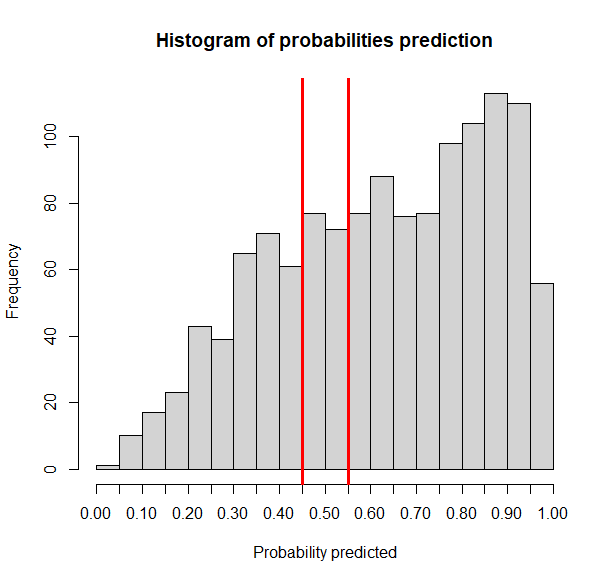
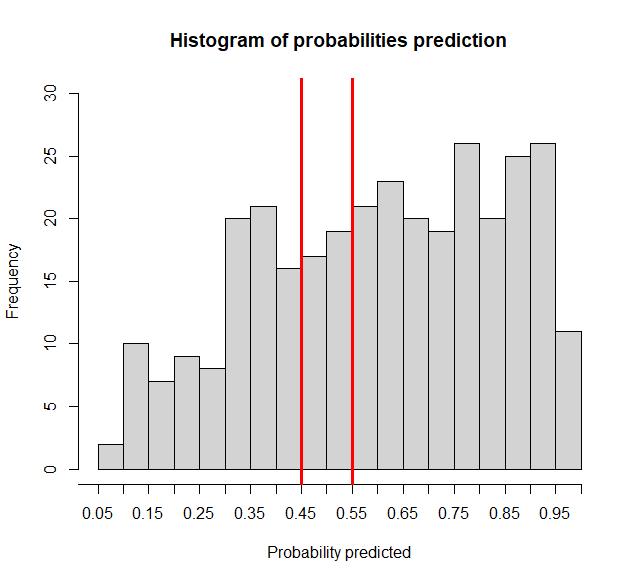
Intermediate report final

diff --git a/reports/mid term/TextFiles/Classification/LogisticRegression.tex b/reports/mid term/TextFiles/Classification/LogisticRegression.tex
@@ -1,4 +1,5 @@
 \subsection{Logistic regression}
+
 As first approach we tried to model our target using \textit{Logistic Regression}.
 
 First of all we fitted a model using all the features, that we will name model A, and the result is displayed in \Fig~\ref{fig:LRAllSum}. The model suggested that many variables are not significantly different from zero, with respect to an $\alpha = 0.01$. Therefore we removed those variables and fitted the model again getting the one in \Fig~\ref{fig:LRImpSum}, that we will name model B.
@@ -6,13 +7,13 @@ First of all we fitted a model using all the features, that we will name model A
 \begin{figure}[h]
 	\begin{subfigure}{.6\textwidth}
 		\centering
-		\includegraphics[width=0.7\linewidth]{ImageFiles/Classification/LogReg/log_reg_all_summary}
+		\includegraphics[width=0.7\linewidth]{ImageFiles/Classification/LogReg/log_reg_tt_all_summary}
 		\caption{Logistic Regression with all features.}
 		\label{fig:LRAllSum}
 	\end{subfigure}
 	\begin{subfigure}{.6\textwidth}
 		\centering
-		\includegraphics[width=0.8\linewidth]{ImageFiles/Classification/LogReg/log_reg_imp_summary}
+		\includegraphics[width=0.8\linewidth]{ImageFiles/Classification/LogReg/log_reg_tt_imp_summary}
 		\caption{Logistic Regression with only significant features.}
 		\label{fig:LRImpSum}
 	\end{subfigure}
@@ -20,9 +21,28 @@ First of all we fitted a model using all the features, that we will name model A
 	\label{fig:LRSum}
 \end{figure}
 
-It can be observed that there is no significant change in performance. When all variables are used, the accuracy is $72.77\%$, compared to $71.36\%$ in the second case. Furthermore, the AIC coefficient changes from 1399.3 to 1397.3, which could be considered almost the same. 
+It can be observed that there is no significant change in performance. When all variables are used, the accuracy is $70\%$, compared to $67.5\%$ in the second case. Furthermore, the AIC coefficient changes from 1052.5 to 1050.2, which could be considered almost the same. 
 
-Another comparison made by the two models is concerning the probabilities predicted since values close to 0.5 suggest high uncertainty of the model. \Fig~\ref{fig:ProbPred} shows as histograms the predicted values distribution for both models.
+\Fig~\ref{fig:CM} shows the Confusion Matrices for the two models. In general, both models tend to perform slightly better in predicting the "yes" class.
+
+\begin{figure}[h]
+	\begin{subfigure}{.6\textwidth}
+		\centering
+		\includegraphics[width=0.7\linewidth]{ImageFiles/Classification/LogReg/log_reg_tt_all_pred_table}
+		\caption{Confusion Matrix of Model A.}
+		\label{fig:CMA}
+	\end{subfigure}
+	\begin{subfigure}{.6\textwidth}
+		\centering
+		\includegraphics[width=0.7\linewidth]{ImageFiles/Classification/LogReg/log_reg_tt_imp_pred_table}
+		\caption{Confusion Matrix of Model B.}
+		\label{fig:CMB}
+	\end{subfigure}
+	\caption{Confusion Matrix.}
+	\label{fig:CM}
+\end{figure}
+
+Another comparison made between the two models concerns the predicted probabilities, as values close to 0.5 suggest high uncertainty of the model. Histograms showing the predicted values distribution for both models are presented in \Fig~\ref{fig:ProbPred}. From this point of view, model B appears to perform better, but in general, the two models exhibit the same behavior.
 
 \begin{figure}[h]
 	\begin{subfigure}{.6\textwidth}
@@ -37,6 +57,52 @@ Another comparison made by the two models is concerning the probabilities predic
 		\caption{Probabilities predicted by model B.}
 		\label{fig:ProbPredB}
 	\end{subfigure}
-	\caption{Probabilites predicted.}
+	\caption{Probabilities predicted.}
 	\label{fig:ProbPred}
 \end{figure}
+
+The model fitted using only the important variables shows the same performance as the first one, but it uses variables, making it a better choice.
+
+\vspace{0.2cm}
+\textbf{Subset Selection}
+
+After the initial analysis, we attempted variable selection using \textit{Subset Selection Algorithms}, specifically the Forward Stepwise and Backward Stepwise methods were applied. 
+
+The results obtained are presented in \Fig~\ref{fig:LRSSSum}. The \textit{Forward Stepwise} method resulted in a model that essentially includes all the variables. In contrast, the \textit{Backward Stepwise} method resulted in a model with 11 variables, but 7 of them are not significantly different from zero with respect to $a\alpha = 0.01$. The model achieved an $AIC = 1040.4$ and accuracy of $70\%$. The performances are again quiet similar, the AIC coefficient is slightly better for the backward model.
+
+\begin{figure}[h]
+	\begin{subfigure}{.6\textwidth}
+		\centering
+		\includegraphics[width=0.7\linewidth]{ImageFiles/Classification/LogReg/lr_fss_summary}
+		\caption{Logistic Regression with Forward Stepwise.}
+		\label{fig:LRFSSSum}
+	\end{subfigure}
+	\begin{subfigure}{.6\textwidth}
+		\centering
+		\includegraphics[width=0.7\linewidth]{ImageFiles/Classification/LogReg/lr_bss_summary}
+		\caption{Logistic Regression with Backward Stepwise.}
+		\label{fig:LRBSSSum}
+	\end{subfigure}
+	\caption{Logistic Regression models with Subset Selection.}
+	\label{fig:LRSSSum}
+\end{figure}
+
+Since the Forward model includes all the variables, its analysis is identical to the first one.
+
+After removing the non-significant variables from the backward model, we obtained the same model as in the previous analysis, which we referred to as model B. 
+
+This confirms our results, suggesting that the model with only \textit{"GP"} and \textit{"OREB"} explains in a good way the target. 
+
+\vspace{0.2cm}
+\textbf{Conclusions and Observations}
+
+In general, regardless of the variables included, \textit{Logistic Regression} is able to achieve an accuracy around $70\%$. Therefore, it may be better to explore other classification methods to potentially improve the model's performances.
+
+However, the \textit{Logistic} model obtained suggests that a good trade-off between model simplicity and performances can be achieved with two variables. In particular:
+
+\begin{itemize}
+	\item The inclusion of \textit{"GP"} was expected, as it makes sense that players who play more games will have a longer career. The second feature, on the other hand, is not really intuitive and revealed a new characteristic about the data.
+	\item In general, all models perform better at predicting the "yes" class instead of the "no" class, but this can be traced back to the composition of the dataset, which includes more "yes" samples than "no".
+\end{itemize}
+
+The performances achieved with \textit{Logistic Regression} are limited, therefore other classification techniques will be explored in the following sections.

diff --git a/reports/mid term/TextFiles/Classification/Conclusions.tex b/reports/mid term/TextFiles/Classification/Conclusions.tex
@@ -1,0 +1,5 @@
+\subsection{Conclusions}
+
+From the previous analysis, it was found that the variable \textit{"GP"} is the most important in explaining the target variable. 
+
+While \textit{"GP}" is found to be the most important in explaining the target variable, it alone is not sufficient in achieving high classification performance. In fact, all classification methods applied in this analysis were only able to achieve an accuracy of around $70\%$, indicating that other factors not captured by the available features may play a significant role in determining whether a player will have a long career or not. Thus, it appears that the dataset itself poses a limitation to achieving high performance.

diff --git a/reports/mid term/TextFiles/Classification/ClassificationTrees.tex b/reports/mid term/TextFiles/Classification/ClassificationTrees.tex
@@ -18,7 +18,7 @@ To understand whether it was better to use a simpler tree or not, we performed c
 	\end{subfigure}%
 	\begin{subfigure}{.6\textwidth}
 		\centering
-		\includegraphics[width=0.5\linewidth]{ImageFiles/Classification/Trees/tree_prune_comparison}
+		\includegraphics[width=0.6\linewidth]{ImageFiles/Classification/Trees/tree_prune_comparison}
 		\caption{Different size trees.}
 		\label{fig:tree_prune_comparison}
 	\end{subfigure}

diff --git a/reports/mid term/Report.tex b/reports/mid term/Report.tex
@@ -130,5 +130,7 @@
 	\import{./TextFiles/Classification/}{LogisticRegression.tex}
 	\import{./TextFiles/Classification/}{ClassificationTrees.tex}
 	\import{./TextFiles/Classification/}{ClassificationEnsMet.tex}
+	\import{./TextFiles/Classification/}{ClassificationKNN.tex}
+	\import{./TextFiles/Classification/}{Conclusions.tex}
 			
 \end{document}

diff --git a/reports/mid term/TextFiles/Classification/ClassificationKNN.tex b/reports/mid term/TextFiles/Classification/ClassificationKNN.tex
@@ -1,0 +1,3 @@
+\subsection{k-Nearest Neighbour}
+
+As a last method, we tried applying the KNN (\textit{"k-Nearest Neighbour"}) algorithm, with K=3, to see if we can achieve better performances. The resulted accuracy is $66.25\%$. Therefore, it seems like the KNN algorithm did not improve the classification performances in this case.
